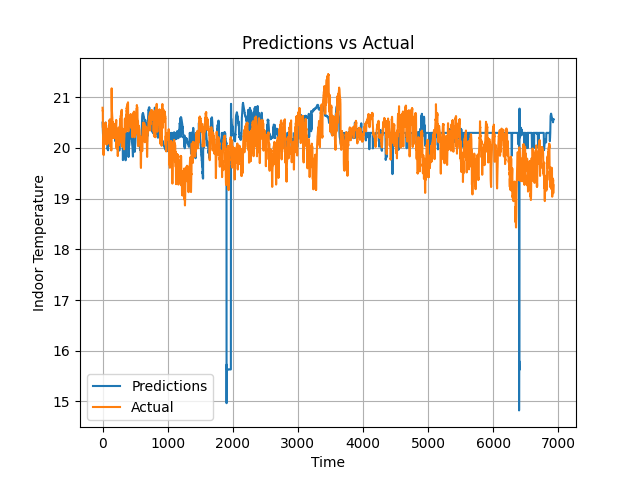
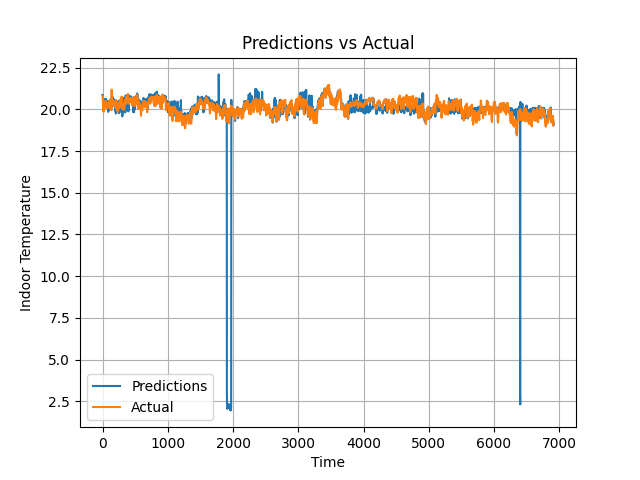
fixed model training and eval

diff --git a/training.py b/training.py
@@ -4,8 +4,8 @@ import torch.utils.data as data
 import numpy as np
 import matplotlib
 import matplotlib.pyplot as plt
-from model import LSTM
-from hyper_parameters import hidden_size, epochs, learning_rate, seq_len, batch_size
+from model import model
+from hyper_parameters import epochs, learning_rate, seq_len, batch_size
 from sequenizer import create_sequences
 from data import train_data
 from device import device
@@ -16,8 +16,8 @@ def trainer(model: nn.Module, epochs: int, train_data: np.ndarray, learning_rate
     criterion = nn.MSELoss()
     optimizer = torch.optim.Adam(model.parameters(), lr=learning_rate)
 
-    xs, ys = create_sequences(train_data, seq_len, device)
-    loader = data.DataLoader(data.TensorDataset(xs, ys), batch_size=batch_size, shuffle=True)
+    xs, ys = create_sequences(train_data, seq_len)
+    loader = data.DataLoader(data.TensorDataset(xs, ys), batch_size=batch_size, drop_last=True, shuffle=True)
 
     model.to(device)
     model.train()
@@ -26,10 +26,6 @@ def trainer(model: nn.Module, epochs: int, train_data: np.ndarray, learning_rate
     for epoch in range(epochs):
         epoch_loss = 0.0
         for batch_idx, (x_batch, y_batch) in enumerate(loader):
-            # Skip last batch as it might be malformed if entries % batch_size != 0
-            if x_batch.size(0) != batch_size:
-                continue
-
             prediction = model(x_batch)
             loss = criterion(prediction, y_batch)
             optimizer.zero_grad()
@@ -37,12 +33,11 @@ def trainer(model: nn.Module, epochs: int, train_data: np.ndarray, learning_rate
             optimizer.step()
 
             epoch_loss += loss.item()
-            print(f'Epoch [{epoch + 1}/{epochs}], Batch [{batch_idx + 1}/{len(loader) - 1}], Loss: {loss.item():.4f}')
+            if batch_idx % batch_size == 0:
+                print(f'Epoch [{epoch + 1}/{epochs}], Batch [{batch_idx + 1}/{len(loader) - 1}], Loss: {loss.item():.4f}')
         epoch_losses.append(epoch_loss)
     torch.save(model.state_dict(), "trained_model.pth")
     return epoch_losses
-        
-model = LSTM(hidden_size, batch_size)
 
 epoch_losses = trainer(model, epochs, train_data, learning_rate, seq_len, device)
 

diff --git a/evaluate.py b/evaluate.py
@@ -1,40 +1,45 @@
 import matplotlib
 import matplotlib.pyplot as plt
-import pandas as pd
 import torch
 import torch.nn as nn
+import torch.utils.data as data
 import numpy as np
-from model import LSTM
-from hyper_parameters import hidden_size, seq_len
+from model import model
+from hyper_parameters import seq_len, batch_size
 from sequenizer import create_sequences
 from data import test_data
-from device import device
 
 matplotlib.use("Agg")
 
-def evaluate(model: nn.Module, test_data: np.ndarray, device: torch.device):
-    model.to(device)
+def evaluate(model: nn.Module, test_data: np.ndarray, batch_size: int):
     model.eval()
     xs, ys = create_sequences(test_data, seq_len)
-    xs = torch.tensor(xs, dtype=torch.float32).to(device)
-    ys = torch.tensor(ys, dtype=torch.float32).to(device)
+    loader = data.DataLoader(data.TensorDataset(xs, ys), batch_size=batch_size, drop_last=True)
 
     predictions = []
+    actuals = []
     with torch.no_grad():
-        for i in range(len(xs)):
-            input_seq = xs[i]
-            prediction = model(input_seq)
-            predictions.append(prediction.item())
+        for x_batch, y_batch in loader:
+            prediction = model(x_batch)
+            predictions.append(prediction.cpu().numpy())
+            actuals.append(y_batch.cpu().numpy())
     
-    return np.array(predictions), ys.numpy()
+    predictions = np.concatenate(predictions)
+    actuals = np.concatenate(actuals)
+
+    return np.array(predictions), np.array(actuals)
     
-model = LSTM(hidden_size)
 model.load_state_dict(torch.load("trained_model.pth", weights_only=True))
 
-predictions, actuals = evaluate(model, test_data)
+predictions, actuals = evaluate(model, test_data, batch_size)
 
-mape = np.mean(np.abs((actuals - predictions) / actuals)) * 100
-print(f'Total Percentage Error (MAPE): {mape:.2f}%')
+rmse = np.sqrt(np.mean((predictions - actuals) ** 2))
+mae = np.mean(np.abs(predictions - actuals))
+maxe = np.max(np.abs(predictions - actuals))
+
+print(f'RMSE: {rmse:.2f}')
+print(f'MAE: {mae:.2f}')
+print(f'MAXE: {maxe:.2f}')
 
 plt.plot(predictions, label="Predictions")
 plt.plot(actuals, label="Actual")

diff --git a/model.py b/model.py
@@ -1,6 +1,9 @@
 import torch
 import torch.nn as nn
 
+from hyper_parameters import hidden_size, batch_size
+from device import device
+
 class LSTM(nn.Module):
     def __init__(self, hidden_size: int, batch_size: int = 1, dropout: float = 0.0):
         super(LSTM, self).__init__()
@@ -19,4 +22,6 @@ class LSTM(nn.Module):
         out, _ = self.lstm(x, (h0, c0))
         out = out[:, -1, :]
         return self.fc(out)
-    
+
+model = LSTM(hidden_size, batch_size)
+model.to(device)

diff --git a/sequenizer.py b/sequenizer.py
@@ -1,7 +1,8 @@
 import torch
 import numpy as np
+from device import device
 
-def create_sequences(data: np.ndarray, seq_len: int, device: torch.device):
+def create_sequences(data: np.ndarray, seq_len: int):
     num_sequences = len(data) - seq_len
     num_features = data.shape[1]
 
